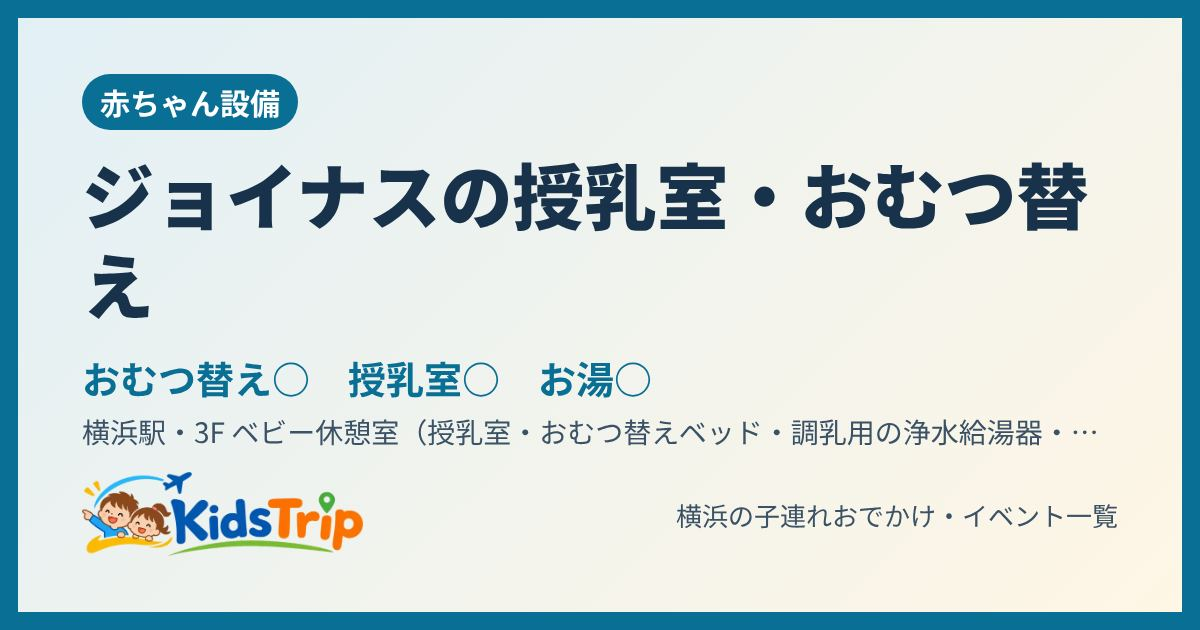
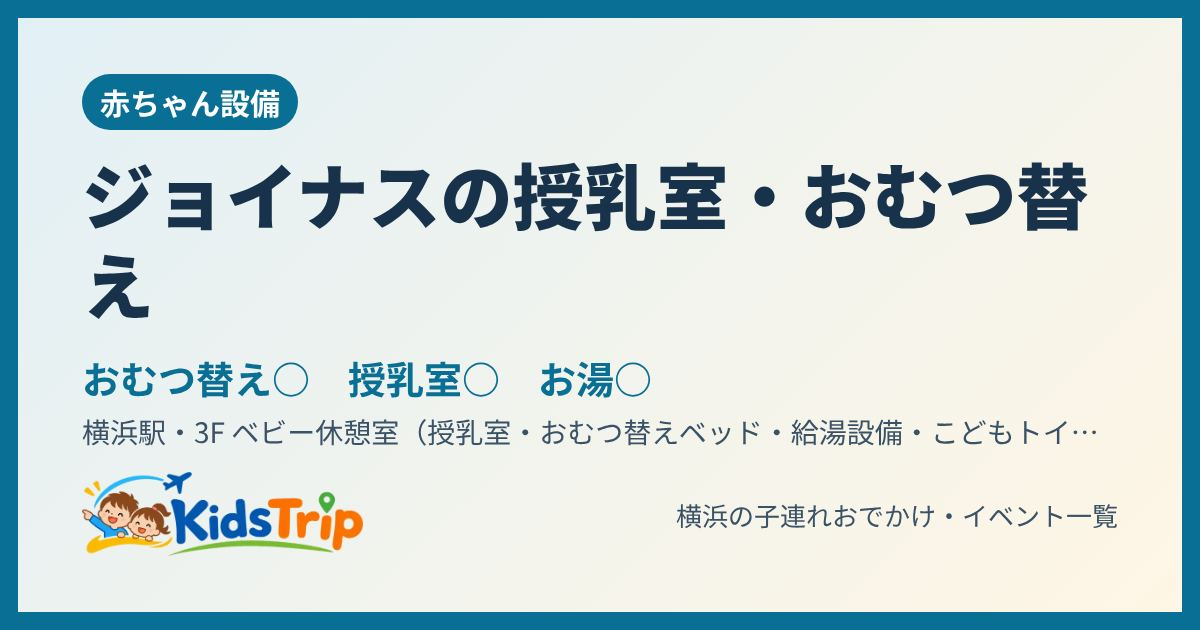
ジョイナス：写真は参考にとどめ、公式に書いてあることだけにする
Claude-Session: https://claude.ai/code/session_014AtJ2fHfJAqHs7WQwJHXLv

Changed region(s): [[0.6475, 0.6635, 0.8942, 0.7238]]

diff --git a/spot/2xm8ap/index.html b/spot/2xm8ap/index.html
@@ -4,12 +4,12 @@
 <meta charset="utf-8">
 <meta name="viewport" content="width=device-width, initial-scale=1">
 <title>ジョイナスの授乳室は何階？おむつ替え・お湯｜KidsTrip</title>
-<meta name="description" content="ジョイナス（横浜駅）の授乳室・おむつ替えの場所：3F ベビー休憩室（授乳室・おむつ替えベッド・調乳用の浄水給湯器・こどもトイレ）／ベビーチェア・ベビーベッド付きトイレ：B2〜4F。おむつ替え・授乳室・調乳のお湯あり。">
+<meta name="description" content="ジョイナス（横浜駅）の授乳室・おむつ替えの場所：3F ベビー休憩室（授乳室・おむつ替えベッド・給湯設備・こどもトイレ）／ベビーチェア・ベビーベッド付きトイレ：B2〜4F。おむつ替え・授乳室・調乳のお湯あり。">
 <link rel="canonical" href="https://kidstrip.jp/spot/2xm8ap/">
 <meta property="og:type" content="article">
 <meta property="og:site_name" content="KidsTrip">
 <meta property="og:title" content="ジョイナスの授乳室は何階？おむつ替え・お湯｜KidsTrip">
-<meta property="og:description" content="ジョイナス（横浜駅）の授乳室・おむつ替えの場所：3F ベビー休憩室（授乳室・おむつ替えベッド・調乳用の浄水給湯器・こどもトイレ）／ベビーチェア・ベビーベッド付きトイレ：B2〜4F。おむつ替え・授乳室・調乳のお湯あり。">
+<meta property="og:description" content="ジョイナス（横浜駅）の授乳室・おむつ替えの場所：3F ベビー休憩室（授乳室・おむつ替えベッド・給湯設備・こどもトイレ）／ベビーチェア・ベビーベッド付きトイレ：B2〜4F。おむつ替え・授乳室・調乳のお湯あり。">
 <meta property="og:url" content="https://kidstrip.jp/spot/2xm8ap/">
 <meta property="og:image" content="https://kidstrip.jp/og/spot-2xm8ap.jpg">
 <meta property="og:image:width" content="1200">
@@ -19,7 +19,7 @@
 <link rel="icon" href="../../img/favicon.png">
 <link rel="apple-touch-icon" href="../../img/apple-touch-icon.png">
 <script type="application/ld+json">{"@context": "https://schema.org", "@type": "BreadcrumbList", "itemListElement": [{"@type": "ListItem", "position": 1, "name": "トップ", "item": "https://kidstrip.jp/"}, {"@type": "ListItem", "position": 2, "name": "ごはん・おむつ", "item": "https://kidstrip.jp/#foodall"}, {"@type": "ListItem", "position": 3, "name": "ジョイナス"}]}</script>
-<script type="application/ld+json">{"@context": "https://schema.org", "@type": "Place", "name": "ジョイナス", "description": "ジョイナス（横浜駅）の授乳室・おむつ替えの場所：3F ベビー休憩室（授乳室・おむつ替えベッド・調乳用の浄水給湯器・こどもトイレ）／ベビーチェア・ベビーベッド付きトイレ：B2〜4F。おむつ替え・授乳室・調乳のお湯あり。", "url": "https://kidstrip.jp/spot/2xm8ap/", "image": ["https://kidstrip.jp/og/spot-2xm8ap.jpg"], "address": {"@type": "PostalAddress", "addressLocality": "横浜市", "addressRegion": "神奈川県", "addressCountry": "JP"}, "amenityFeature": [{"@type": "LocationFeatureSpecification", "name": "おむつ替え", "value": true}, {"@type": "LocationFeatureSpecification", "name": "授乳室", "value": true}, {"@type": "LocationFeatureSpecification", "name": "調乳のお湯", "value": true}], "publicAccess": true, "sameAs": "https://www.sotetsu-joinus.com/facility", "hasMap": "https://www.google.com/maps/search/?api=1&query=ジョイナス"}</script>
+<script type="application/ld+json">{"@context": "https://schema.org", "@type": "Place", "name": "ジョイナス", "description": "ジョイナス（横浜駅）の授乳室・おむつ替えの場所：3F ベビー休憩室（授乳室・おむつ替えベッド・給湯設備・こどもトイレ）／ベビーチェア・ベビーベッド付きトイレ：B2〜4F。おむつ替え・授乳室・調乳のお湯あり。", "url": "https://kidstrip.jp/spot/2xm8ap/", "image": ["https://kidstrip.jp/og/spot-2xm8ap.jpg"], "address": {"@type": "PostalAddress", "addressLocality": "横浜市", "addressRegion": "神奈川県", "addressCountry": "JP"}, "amenityFeature": [{"@type": "LocationFeatureSpecification", "name": "おむつ替え", "value": true}, {"@type": "LocationFeatureSpecification", "name": "授乳室", "value": true}, {"@type": "LocationFeatureSpecification", "name": "調乳のお湯", "value": true}], "publicAccess": true, "sameAs": "https://www.sotetsu-joinus.com/facility", "hasMap": "https://www.google.com/maps/search/?api=1&query=ジョイナス"}</script>
 <style>
 :root{--paper:#f8fafc;--card:#fff;--ink:#18222e;--muted:#5b6875;--line:#dde3e9;--accent:#0a6f95;--accent-soft:#e2f0f6;--ok:#2e7d4f;--bad:#b3372b}
 *{box-sizing:border-box}body{margin:0;background:var(--paper);color:var(--ink);font-family:"Zen Kaku Gothic New","Hiragino Kaku Gothic ProN","Yu Gothic","Meiryo",sans-serif;line-height:1.7}
@@ -48,15 +48,15 @@ footer{margin:28px 0 8px;font-size:12px;color:var(--muted)}
 <h1>ジョイナス（横浜駅西口）の授乳室・おむつ替え・お湯</h1>
 <table class="bm"><thead><tr><th>場所</th><th>おむつ替え</th><th>授乳室</th><th>お湯</th><th>レンジ</th></tr></thead><tbody><tr><th>ジョイナス</th><td class="y">○</td><td class="y">○</td><td class="y">○</td><td class="u">？</td></tr></tbody></table>
 <p class="legend">○ あり　× なし　？ 調べた範囲で確認できず</p>
-<table class="info"><tr><th>場所</th><td>3F ベビー休憩室（授乳室・おむつ替えベッド・調乳用の浄水給湯器・こどもトイレ）／ベビーチェア・ベビーベッド付きトイレ：B2〜4F</td></tr><tr><th>エリア</th><td>横浜駅</td></tr></table>
+<table class="info"><tr><th>場所</th><td>3F ベビー休憩室（授乳室・おむつ替えベッド・給湯設備・こどもトイレ）／ベビーチェア・ベビーベッド付きトイレ：B2〜4F</td></tr><tr><th>エリア</th><td>横浜駅</td></tr></table>
 <ul class="chips"><li>こどもトイレ（B2・3F ベビー休憩室内）</li><li>ベビーベッド付きトイレ（B2〜4F。一部の男性トイレにはない）</li></ul>
-<p class="sum">3Fのベビー休憩室に、授乳室（女性専用）・ベビーベッド・調乳用の浄水給湯器・こどもトイレがある。授乳室以外は男性も使える。授乳・離乳食・おむつ替えのための部屋で、子ども連れ以外は入れない。電子レンジ・ベビーカー貸出は公式ページに記載なし。相鉄線横浜駅直結。</p>
-<p class="small">出典：相鉄ジョイナス 公式（施設・サービス・2026年11月20日確認）・ベビー休憩室の案内板（利用者の写真・2026年11月）</p>
+<p class="sum">3Fのベビー休憩室に、授乳室・おむつ替えベッド・給湯設備・こどもトイレがある。授乳室以外は男性も使える。電子レンジ・ベビーカー貸出は公式ページに記載なし。相鉄線横浜駅直結。</p>
+<p class="small">出典：相鉄ジョイナス 公式（施設・サービス・2026年11月20日確認）</p>
 <div class="btns"><a class="btn main" data-act="official" href="https://www.sotetsu-joinus.com/facility" target="_blank" rel="noopener">公式ページで確認</a>
 <a class="btn" href="https://www.google.com/maps/search/?api=1&amp;query=ジョイナス" target="_blank" rel="noopener">地図で見る</a>
 <button type="button" class="btn" data-share="1">🔗 リンクを送る・コピー</button></div>
 </article>
-<h2>パパも使える？</h2><p><b>🍼 ベビールーム</b>　3Fのベビー休憩室は授乳室以外は男性も使える（公式・案内板）。ベビーベッド付きトイレは一部の男性トイレにはない</p>
+<h2>パパも使える？</h2><p><b>🍼 ベビールーム</b>　3Fのベビー休憩室は授乳室以外は男性も使える。ベビーベッド付きトイレは一部の男性トイレにはない</p>
 
 
 <h2>同じエリアのほかの赤ちゃん設備</h2><table class="bm"><thead><tr><th>場所</th><th>おむつ替え</th><th>授乳室</th><th>お湯</th><th>レンジ</th></tr></thead><tbody><tr><th scope="row"><a href="/spot/1wazjhw/">横浜ポルタ</a></th><td class="y">○</td><td class="y">○</td><td class="u">？</td><td class="u">？</td></tr><tr><th scope="row"><a href="/spot/1iwprnc/">横浜ビブレ</a></th><td class="y">○</td><td class="y">○</td><td class="u">？</td><td class="u">？</td></tr><tr><th scope="row"><a href="/spot/1ixhw31/">ヨドバシ横浜</a></th><td class="y">○</td><td class="y">○</td><td class="y">○</td><td class="u">？</td></tr><tr><th scope="row"><a href="/spot/fviw25/">横浜スカイビル</a></th><td class="y">○</td><td class="u">？</td><td class="u">？</td><td class="u">？</td></tr><tr><th scope="row"><a href="/spot/1blkzom/">シァル横浜</a></th><td class="u">？</td><td class="y">○</td><td class="u">？</td><td class="u">？</td></tr><tr><th scope="row"><a href="/spot/uxzm6a/">原鉄道模型博物館</a></th><td class="y">○</td><td class="y">○</td><td class="n">×</td><td class="u">？</td></tr><tr><th scope="row"><a href="/spot/14ws7oy/">横浜市民防災センター</a></th><td class="y">○</td><td class="y">○</td><td class="n">×</td><td class="u">？</td></tr><tr><th scope="row"><a href="/spot/1234fgp/">日産 グローバル本社ギャラリー</a></th><td class="y">○</td><td class="y">○</td><td class="y">○</td><td class="u">？</td></tr><tr><th scope="row"><a href="/spot/12zefgy/">横浜シティ・エア・ターミナル</a></th><td class="y">○</td><td class="n">×</td><td class="u">？</td><td class="u">？</td></tr><tr><th scope="row"><a href="/spot/ttyij6/">アソビル</a></th><td class="y">○</td><td class="y">○</td><td class="y">○</td><td class="u">？</td></tr><tr><th scope="row"><a href="/spot/14xdm7p/">横浜モアーズ</a></th><td class="y">○</td><td class="y">○</td><td class="y">○</td><td class="u">？</td></tr><tr><th scope="row"><a href="/spot/lg4yuc/">ニュウマン横浜</a></th><td class="y">○</td><td class="y">○</td><td class="n">×</td><td class="u">？</td></tr><tr><th scope="row"><a href="/spot/t7377s/">ルミネ横浜</a></th><td class="y">○</td><td class="y">○</td><td class="y">○</td><td class="y">○</td></tr><tr><th scope="row"><a href="/spot/1kkyo59/">そごう横浜店</a></th><td class="y">○</td><td class="y">○</td><td class="y">○</td><td class="u">？</td></tr><tr><th scope="row"><a href="/spot/17bif9m/">高島屋横浜店 6F</a></th><td class="y">○</td><td class="y">○</td><td class="y">○</td><td class="y">○</td></tr><tr><th scope="row"><a href="/spot/npxufp/">横浜ベイクォーター</a></th><td class="y">○</td><td class="y">○</td><td class="y">○</td><td class="y">○</td></tr><tr><th scope="row"><a href="/spot/14ubomp/">CeeU Yokohama</a></th><td class="u">？</td><td class="u">？</td><td class="u">？</td><td class="u">？</td></tr></tbody></table><p class="legend">○ あり　× なし　？ 調べた範囲で確認できず</p>

diff --git a/js/data.js b/js/data.js
@@ -664,8 +664,8 @@ const BABY = {
       note:"授乳室は2か所とも給湯器つきで、個室が2つずつ。横浜駅きた東口から歩いて約3分。", url:"https://www.yokohama-bayquarter.com/guidance/", src:"横浜ベイクォーター 公式（2026年11月）" },
     { n:"CeeU Yokohama（エディオン横浜西口本店）", where:"優先トイレ：2F・3F・5F・7F・9F（トイレは各階）", d:null, f:null, w:null, ex:[],
       note:"公式ページに授乳室・おむつ替え・お湯の記載はありません。使うときは館内で確認してください。横浜駅西口から歩いて約5分、横浜ビブレの向かい。", url:"https://ceeu-yokohama.aeonmall.com/static-pages/facility", src:"CeeU Yokohama 公式（2026年11月）" },
-    { n:"ジョイナス（横浜駅西口）", where:"3F ベビー休憩室（授乳室・おむつ替えベッド・調乳用の浄水給湯器・こどもトイレ）／ベビーチェア・ベビーベッド付きトイレ：B2〜4F", d:true, f:true, w:true, ex:["こどもトイレ（B2・3F ベビー休憩室内）","ベビーベッド付きトイレ（B2〜4F。一部の男性トイレにはない）"],
-      note:"3Fのベビー休憩室に、授乳室（女性専用）・ベビーベッド・調乳用の浄水給湯器・こどもトイレがある。授乳室以外は男性も使える。授乳・離乳食・おむつ替えのための部屋で、子ども連れ以外は入れない。電子レンジ・ベビーカー貸出は公式ページに記載なし。相鉄線横浜駅直結。", url:"https://www.sotetsu-joinus.com/facility", src:"相鉄ジョイナス 公式（施設・サービス・2026年11月20日確認）・ベビー休憩室の案内板（利用者の写真・2026年11月）" }
+    { n:"ジョイナス（横浜駅西口）", where:"3F ベビー休憩室（授乳室・おむつ替えベッド・給湯設備・こどもトイレ）／ベビーチェア・ベビーベッド付きトイレ：B2〜4F", d:true, f:true, w:true, ex:["こどもトイレ（B2・3F ベビー休憩室内）","ベビーベッド付きトイレ（B2〜4F。一部の男性トイレにはない）"],
+      note:"3Fのベビー休憩室に、授乳室・おむつ替えベッド・給湯設備・こどもトイレがある。授乳室以外は男性も使える。電子レンジ・ベビーカー貸出は公式ページに記載なし。相鉄線横浜駅直結。", url:"https://www.sotetsu-joinus.com/facility", src:"相鉄ジョイナス 公式（施設・サービス・2026年11月20日確認）" }
   ],
   "shinyokohama": [
     { n:"横浜アリーナ", where:"おむつ交換台あり／授乳室なし", d:true, f:false, w:null, ex:[],
@@ -853,7 +853,7 @@ const PAPA = {
   "横浜ビブレ（横浜駅西口）": { v:"men", t:"6F・8Fの男性トイレにベビーベッド、5F・7F・8Fの男性トイレにベビーチェア", src:"横浜ビブレ 公式（2026年11月）" },
   "横浜市役所（桜木町駅前）": { v:"room", t:"授乳室・ベビー休憩室は子どもと一緒ならだれでも使える。1〜3Fの男性トイレにもおむつ交換台", src:"横浜市 公式（2026年11月）" },
   "ミオカ・リスト館（上大岡駅前）": { v:"men", t:"リスト館3F・6Fの男性用トイレにおむつ替えスペース。ミオカは2F・3F・5Fの多目的トイレ", src:"ミオカ 公式（2026年11月）" },
-  "ジョイナス（横浜駅西口）": { v:"room", t:"3Fのベビー休憩室は授乳室以外は男性も使える（公式・案内板）。ベビーベッド付きトイレは一部の男性トイレにはない", src:"相鉄ジョイナス 公式・利用者の写真（2026年11月）" },
+  "ジョイナス（横浜駅西口）": { v:"room", t:"3Fのベビー休憩室は授乳室以外は男性も使える。ベビーベッド付きトイレは一部の男性トイレにはない", src:"相鉄ジョイナス 公式（2026年11月）" },
   "横浜赤レンガ倉庫": { v:"multi", t:"おむつ交換台は女性トイレと2号館バリアフリートイレ前。男女とも個室にベビーキープあり", src:"横浜市観光情報 バリアフリー情報（2024年10月更新）" }
 };
 const PAPA_LABEL = { men:"👨 男性トイレOK", multi:"🚻 多機能トイレOK", room:"🍼 ベビールーム", women:"⚠ 女性トイレのみ", unk:"？ 未確認" };

diff --git a/index.html b/index.html
@@ -717,7 +717,7 @@ section[id], div[id="events"] { scroll-margin-top: 56px; }
   </footer>
 </div>
 
-<script src="js/data.js?v=d0b1110c2c" defer></script>
+<script src="js/data.js?v=12b4cad264" defer></script>
 <script src="js/app.js?v=2770fd00a7" defer></script>
 </body>
 </html>
